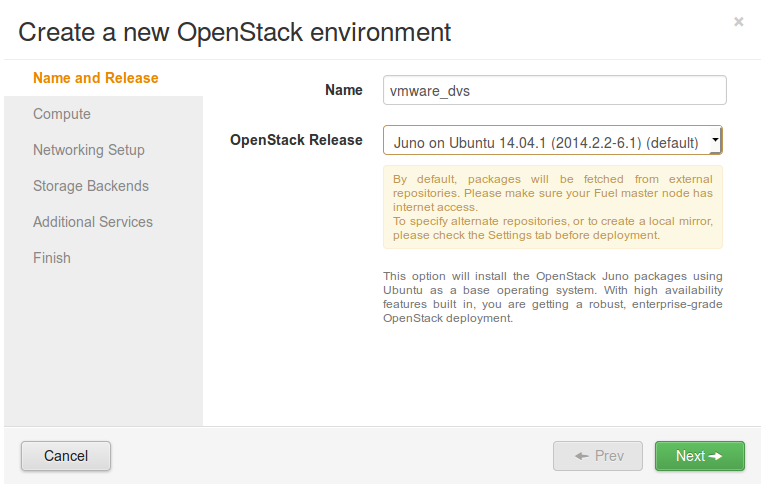
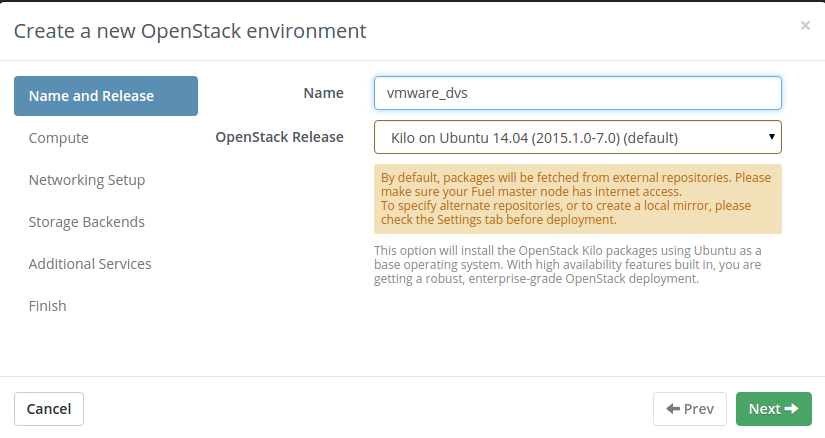
User guide update for 7.0
Closes #1505546: User guide is not updated for 7.0

diff --git a/docs/install_guide/vmware_dvs_install_guide.rst b/docs/install_guide/vmware_dvs_install_guide.rst
@@ -1,5 +1,5 @@
 *****************************************************
-Guide to the VMware DVS plugin version 1.0.1 for Fuel
+Guide to the VMware DVS plugin version 1.1.0 for Fuel
 *****************************************************
 
 .. raw:: pdf
@@ -11,7 +11,7 @@ Document purpose
 ----------------
 
 The purpose of this document is to describe how to install, configure
-and use the VMware DVS plugin 1.0.1 for Fuel 6.1.
+and use the VMware DVS plugin 1.1.0 for Fuel 7.0.
 
 Key terms, acronyms and abbreviation
 -------------------------------------
@@ -71,7 +71,7 @@ The plugin has the following requirements for software:
 
 ================  ===========
 **Requirement**   **Version**
- Fuel             6.1
+ Fuel             7.0
  vCenter          5.5
 ================  ===========
 
@@ -92,12 +92,12 @@ Installing the VMware DVS plugin
 Make sure that:
 
 * you have the installed the
-  `Fuel Master node <https://docs.mirantis.com/openstack/fuel/fuel-6.1/user-guide.html>`__
+  `Fuel Master node <https://docs.mirantis.com/openstack/fuel/fuel-7.0/user-guide.html>`__
 
 * all the nodes of your future environment are discovered and functional.
 
 * there is a connectivity to correctly configured vCenter with dvSwitch and clusters created. Please,
-  see the `Mirantis OpenStack Planning Guide <https://docs.mirantis.com/openstack/fuel/fuel-6.1/planning-guide.html#vcenter-plan>`_, `User Guide <https://docs.mirantis.com/openstack/fuel/fuel-6.1/user-guide.html#vmware-integration-notes>`_ and `this plugin's specification <https://github.com/openstack/fuel-plugin-vmware-dvs/blob/master/specs/fuel-plugin-vmware-dvs.rst>`_ for information on configuring vCenter.
+  see the `Mirantis OpenStack Planning Guide <https://docs.mirantis.com/openstack/fuel/fuel-7.0/planning-guide.html#vcenter-plan>`_, `User Guide <https://docs.mirantis.com/openstack/fuel/fuel-7.0/user-guide.html#vmware-integration-notes>`_ and `this plugin's specification <https://github.com/openstack/fuel-plugin-vmware-dvs/blob/master/specs/fuel-plugin-vmware-dvs.rst>`_ for information on configuring vCenter.
 
 #. Download the plugin from the
    `Fuel Plugin Catalog <https://www.mirantis.com/products/openstack-drivers-and-plugins/fuel-plugins/>`__.
@@ -105,14 +105,14 @@ Make sure that:
 #. Copy the plugin into Fuel Master node:
    ::
 
-      $ scp fuel-plugin-vmware-dvs-1.0-1.0.1-1.noarch.rpm <Fuel Master node ip>:/tmp
+      $ scp fuel-plugin-vmware-dvs-1.1-1.1.0-1.noarch.rpm <Fuel Master node ip>:/tmp
 
 #. Log into the Fuel Master node and install the plugin:
    ::
 
       $ ssh root@<Fuel Master node ip>
       [root@nailgun ~]# fuel plugins --install /
-      /tmp/fuel-plugin-vmware-dvs-1.01.0.11.noarch.rpm
+      /tmp/fuel-plugin-vmware-dvs-1.1-1.1.0-1.noarch.rpm
       [root@nailgun  ]# fuel plugins
       DEPRECATION WARNING: /etc/fuel/client/config.yaml exists and will
       be used as the source for settings. This behavior is deprecated.
@@ -122,7 +122,7 @@ Make sure that:
       +------+--------------------------+-----------+--------------------+
       | id   | name                     | version   | package\_version   |
       +------+--------------------------+-----------+--------------------+
-      | 2    | fuel-plugin-vmware-dvs   | 1.0.1     | 2.0.0              |
+      | 2    | fuel-plugin-vmware-dvs   | 1.1.0     | 3.0.0              |
       +------+--------------------------+-----------+--------------------+
 
 Removing the VMware DVS plugin
@@ -135,7 +135,7 @@ To uninstall VMware DVS plugin, follow these steps:
 #. Uninstall the plugin:
    ::
 
-      # fuel plugins --remove fuel-plugin-vmware-dvs--1.0.1
+      # fuel plugins --remove fuel-plugin-vmware-dvs--1.1.0
 
 #. Check if the plugin was uninstalled successfully:
    ::
@@ -153,7 +153,7 @@ Configuring VMware DVS plugin
 -----------------------------
 
 #. `Create a new OpenStack
-   environment <https://docs.mirantis.com/openstack/fuel/fuel-6.1/user-guide.html#create-a-new-openstack-environment>`_
+   environment <https://docs.mirantis.com/openstack/fuel/fuel-7.0/user-guide.html#create-a-new-openstack-environment>`_
    with Fuel UI wizard.
 
    .. image:: pics/create.png
@@ -168,11 +168,11 @@ Configuring VMware DVS plugin
    .. image:: pics/net.png
 
 #. Finish environment creation following
-   `documentation <https://docs.mirantis.com/openstack/fuel/fuel-6.1/user-guide.html#create-a-new-openstack-environment>`_.
+   `documentation <https://docs.mirantis.com/openstack/fuel/fuel-7.0/user-guide.html#create-a-new-openstack-environment>`_.
 
 #. `Add
-   <https://docs.mirantis.com/openstack/fuel/fuel-6.1/user-guide.html#configure-your-environment>`__
-   at least 1 Controller and 1 Compute node to the environment.
+   <https://docs.mirantis.com/openstack/fuel/fuel-7.0/user-guide.html#configure-your-environment>`__
+   at least 1 Controller and 1 Compute node to the environment. You can add 1 dedicated Compute VMware node.
 
 #. Open the *Settings* tab of the Fuel Web UI and scroll down the page. Select the
    *use Neutron VMware DVS ML2 plugin* checkbox and specify correct name of dvSwitch:
@@ -183,8 +183,12 @@ Configuring VMware DVS plugin
 
    .. image:: pics/vmware.png
 
+   If the dedicated Compute VMware node selected:
+
+   .. image:: pics/vmware2.png
+
 #. The rest of configuration is up to you.
-   See `Mirantis OpenStack User Guide <https://docs.mirantis.com/openstack/fuel/fuel-6.1/user-guide.html>`__
+   See `Mirantis OpenStack User Guide <https://docs.mirantis.com/openstack/fuel/fuel-7.0/user-guide.html>`__
    for instructions.
 
 #. Click *Deploy changes* button to finish.
